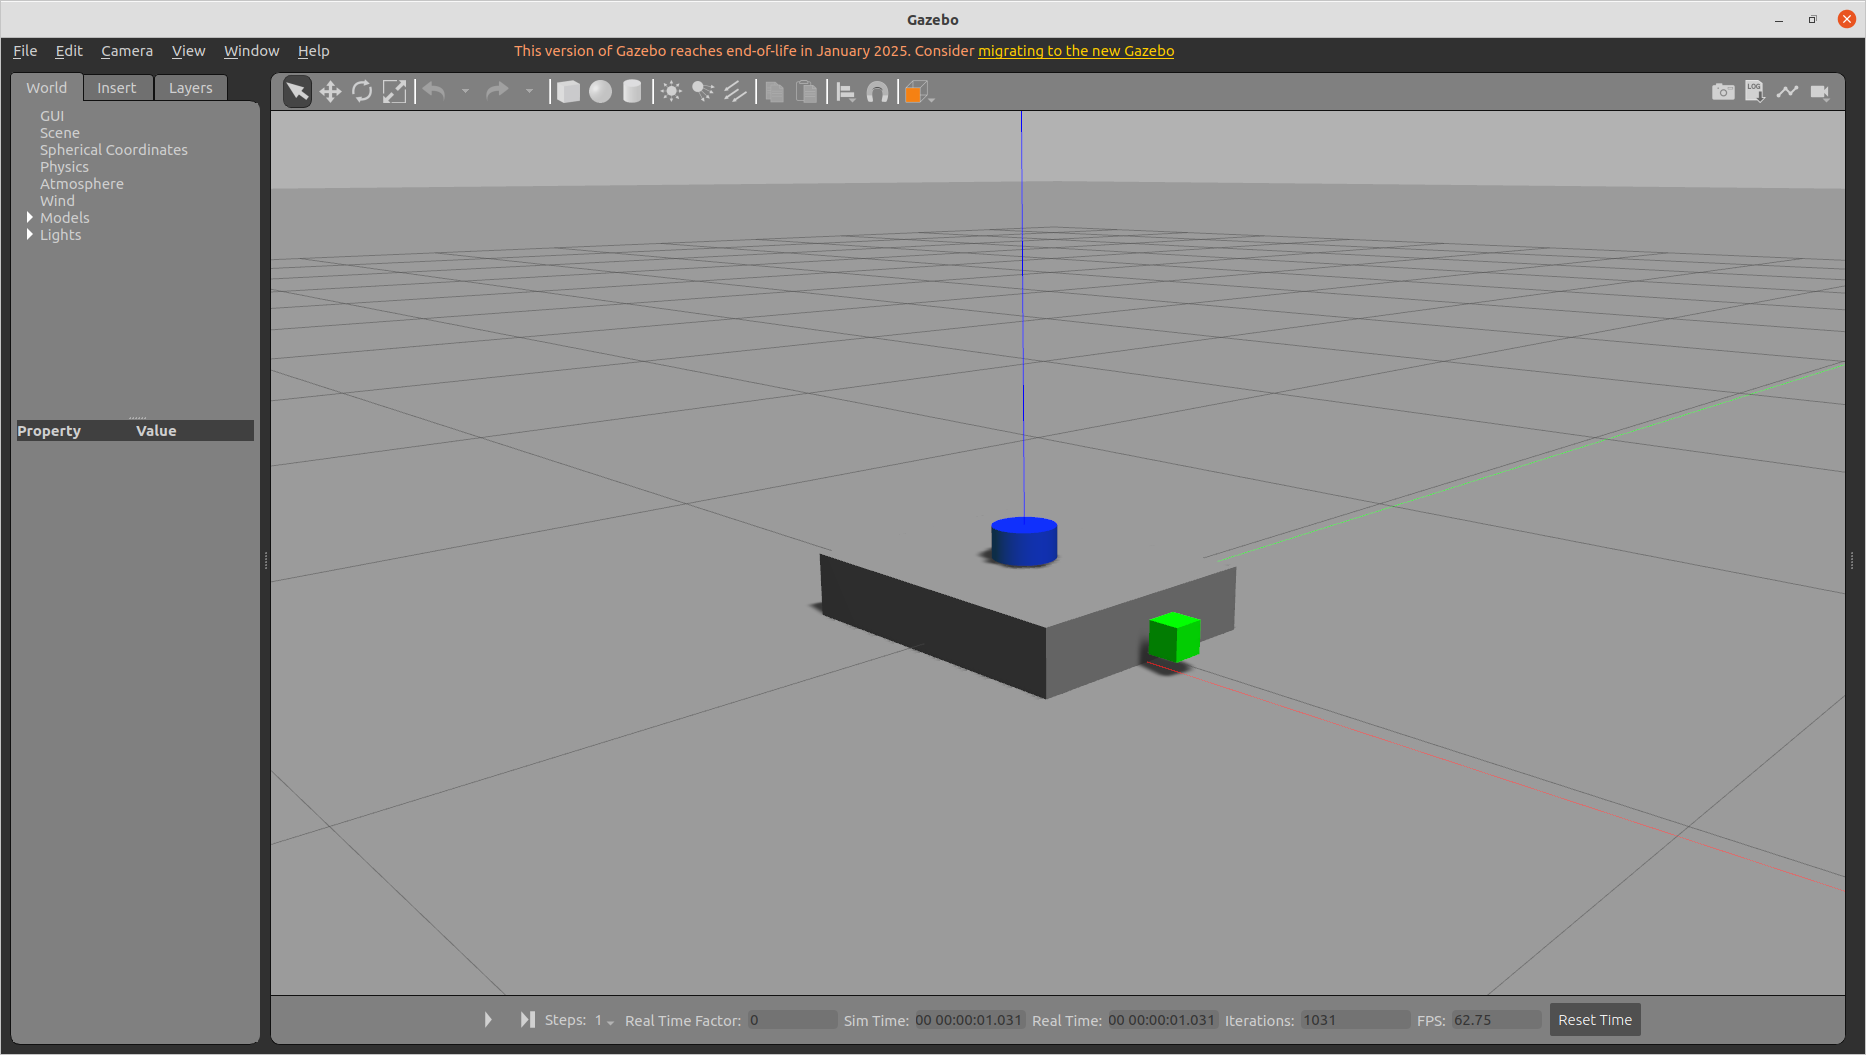
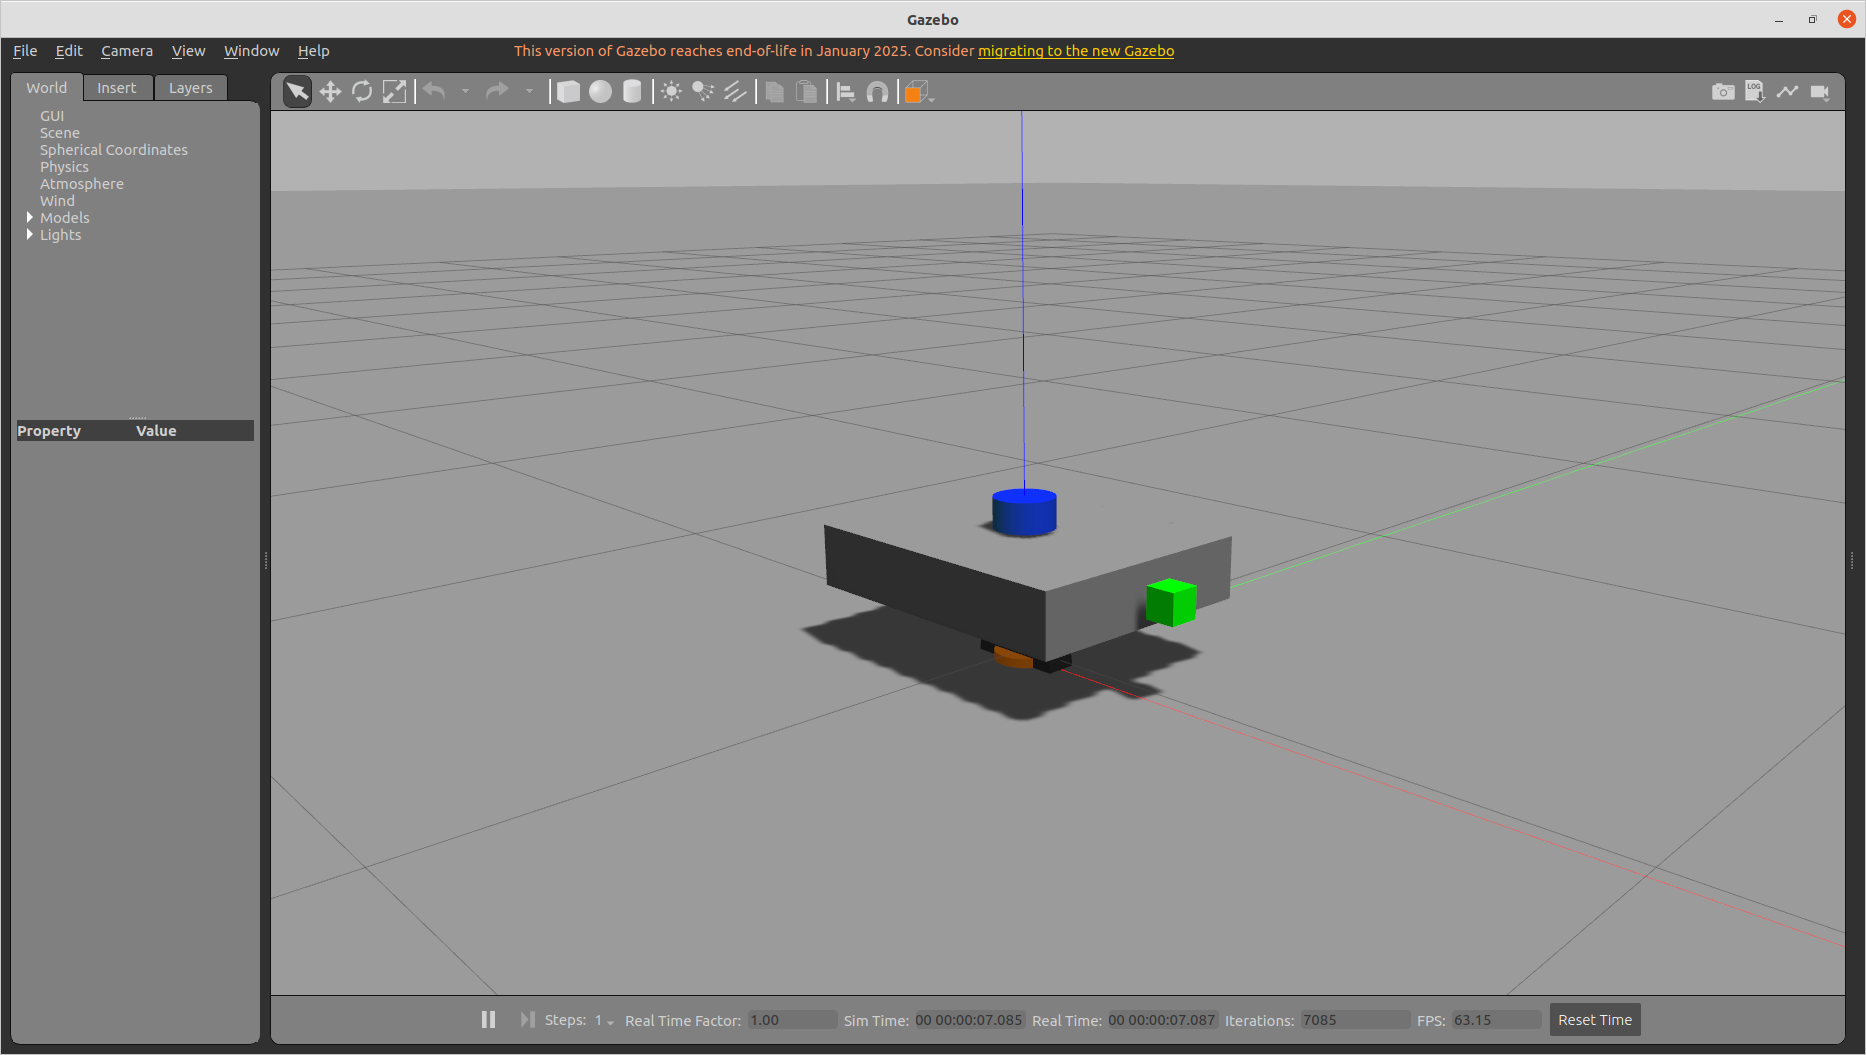
Fix PID error

diff --git a/scripts/ackermann_drive.py b/scripts/ackermann_drive.py
@@ -1,0 +1,90 @@
+#!/usr/bin/env python
+import rospy
+from geometry_msgs.msg import Twist
+from std_msgs.msg import Float64
+import math
+
+class AckermannDriveNode:
+    def __init__(self):
+        rospy.init_node('ackermann_drive_node')
+
+        # Robot parameters
+        self.wheelbase = rospy.get_param('~wheelbase', 0.5)          # 前后轮轴距
+        self.track_width = rospy.get_param('~track_width', 0.4)      # 左右轮间距
+        self.wheel_radius = rospy.get_param('~wheel_radius', 0.08)   # 轮子半径
+        self.steer_mode = rospy.get_param('~steer_mode', 'front')    # 'front' or 'rear'
+
+        # Publishers for wheel velocities (front/rear, left/right)
+        self.wheel_pubs = {
+            'front_left':  rospy.Publisher('/front_left_wheel_velocity_controller/command',  Float64, queue_size=1),
+            'front_right': rospy.Publisher('/front_right_wheel_velocity_controller/command', Float64, queue_size=1),
+            'rear_left':   rospy.Publisher('/rear_left_wheel_velocity_controller/command',   Float64, queue_size=1),
+            'rear_right':  rospy.Publisher('/rear_right_wheel_velocity_controller/command',  Float64, queue_size=1),
+        }
+
+        # Publishers for steering angles (position controller)
+        self.steer_pubs = {
+            'front_left':  rospy.Publisher('/front_left_steering_controller/command',  Float64, queue_size=1),
+            'front_right': rospy.Publisher('/front_right_steering_controller/command', Float64, queue_size=1),
+            'rear_left':   rospy.Publisher('/rear_left_steering_controller/command',   Float64, queue_size=1),
+            'rear_right':  rospy.Publisher('/rear_right_steering_controller/command',  Float64, queue_size=1),
+        }
+
+        rospy.Subscriber('/cmd_vel', Twist, self.cmd_callback)
+        rospy.loginfo("AckermannDriveNode started with '%s' steering mode. Listening to /cmd_vel", self.steer_mode)
+        rospy.spin()
+
+    def cmd_callback(self, msg):
+        vx = msg.linear.x   # m/s
+        wz = msg.angular.z  # rad/s
+
+        if abs(wz) < 1e-5:
+            # Straight driving
+            for side in ['front_left', 'front_right', 'rear_left', 'rear_right']:
+                if side in self.steer_pubs:
+                    self.steer_pubs[side].publish(Float64(0.0))
+            for side in self.wheel_pubs:
+                self.wheel_pubs[side].publish(Float64(vx / self.wheel_radius))
+        else:
+            # Turning (Ackermann steering)
+            radius = vx / wz
+            if self.steer_mode == 'front':
+                delta_left  = math.atan(self.wheelbase / (radius - self.track_width / 2))
+                delta_right = math.atan(self.wheelbase / (radius + self.track_width / 2))
+                self.steer_pubs['front_left'].publish(Float64(delta_left))
+                self.steer_pubs['front_right'].publish(Float64(delta_right))
+                # rear wheels drive
+                R_rl = radius - self.track_width/2
+                R_rr = radius + self.track_width/2
+                v_rl = wz * R_rl
+                v_rr = wz * R_rr
+                self.wheel_pubs['rear_left'].publish(Float64(v_rl / self.wheel_radius))
+                self.wheel_pubs['rear_right'].publish(Float64(v_rr / self.wheel_radius))
+                # front wheels follow
+                v_fl = vx
+                v_fr = vx
+                self.wheel_pubs['front_left'].publish(Float64(v_fl / self.wheel_radius))
+                self.wheel_pubs['front_right'].publish(Float64(v_fr / self.wheel_radius))
+            elif self.steer_mode == 'rear':
+                delta_left  = math.atan(self.wheelbase / (radius - self.track_width / 2))
+                delta_right = math.atan(self.wheelbase / (radius + self.track_width / 2))
+                self.steer_pubs['rear_left'].publish(Float64(delta_left))
+                self.steer_pubs['rear_right'].publish(Float64(delta_right))
+                # front wheels drive
+                R_fl = radius - self.track_width/2
+                R_fr = radius + self.track_width/2
+                v_fl = wz * R_fl
+                v_fr = wz * R_fr
+                self.wheel_pubs['front_left'].publish(Float64(v_fl / self.wheel_radius))
+                self.wheel_pubs['front_right'].publish(Float64(v_fr / self.wheel_radius))
+                # rear wheels follow
+                v_rl = vx
+                v_rr = vx
+                self.wheel_pubs['rear_left'].publish(Float64(v_rl / self.wheel_radius))
+                self.wheel_pubs['rear_right'].publish(Float64(v_rr / self.wheel_radius))
+
+if __name__ == '__main__':
+    try:
+        AckermannDriveNode()
+    except rospy.ROSInterruptException:
+        pass

diff --git a/README.md b/README.md
@@ -1,5 +1,5 @@
 <p align="center">
-  <img src="docs/images/XMOBOT.png" alt="Xmobot Logo" width="200"/>
+  <img src="docs/images/XMOBOT.png" alt="Xmobot" width="200"/>
 </p>
 
 # Xmobot
@@ -26,7 +26,7 @@ Xmobot is a flexible, modular mobile robot platform for SLAM, path planning, and
   - Gazebo 9 (comes with ROS Noetic)
   - `robot_state_publisher`, `joint_state_publisher`, `teleop_twist_keyboard`
     ```bash
-    sudo apt install ros-noetic-joint-state-publisher ros-noetic-robot-state-publisher ros-noetic-xacro ros-noetic-teleop_twist_keyboard
+    sudo apt install ros-noetic-joint-state-publisher ros-noetic-robot-state-publisher ros-noetic-xacro ros-noetic-teleop_twist_keyboard ros-noetic-ros-control ros-noetic-ros-controllers
     ```
 If you don't have ROS1 Noetic installed yet, follow [this guide](http://wiki.ros.org/noetic/Installation/Ubuntu).
 
@@ -79,11 +79,11 @@ Make sure your controller configuration in config/controllers.yaml matches your 
 #### Differential Drive or Mecanum Drive: drive_type:=diff_drive or mecanum
 ![Diff Drive](docs/images/diff_drive.png)
 #### Ackermann Front Steering: drive_type:=ackermann_front
-![Diff Drive](docs/images/ackermann_front.png)
+![ackermann_front](docs/images/ackermann_front.png)
 #### Ackermann Rear Steering: drive_type:=ackermann_rear
-![Diff Drive](docs/images/ackermann_rear.png)
-#### Differential Drive: drive_type:=4wis
-![Diff Drive](docs/images/4wis_gui.png)
+![ackermann_rear](docs/images/ackermann_rear.png)
+#### Four-Wheel Independent Steering and Driving : drive_type:=4wis
+![4wis](docs/images/4wis_gui.png)
 
 ### 4. Low-Level Controller Testing (Recommended)
 You can directly test velocity and steering controllers without requiring teleop or navigation stack:
